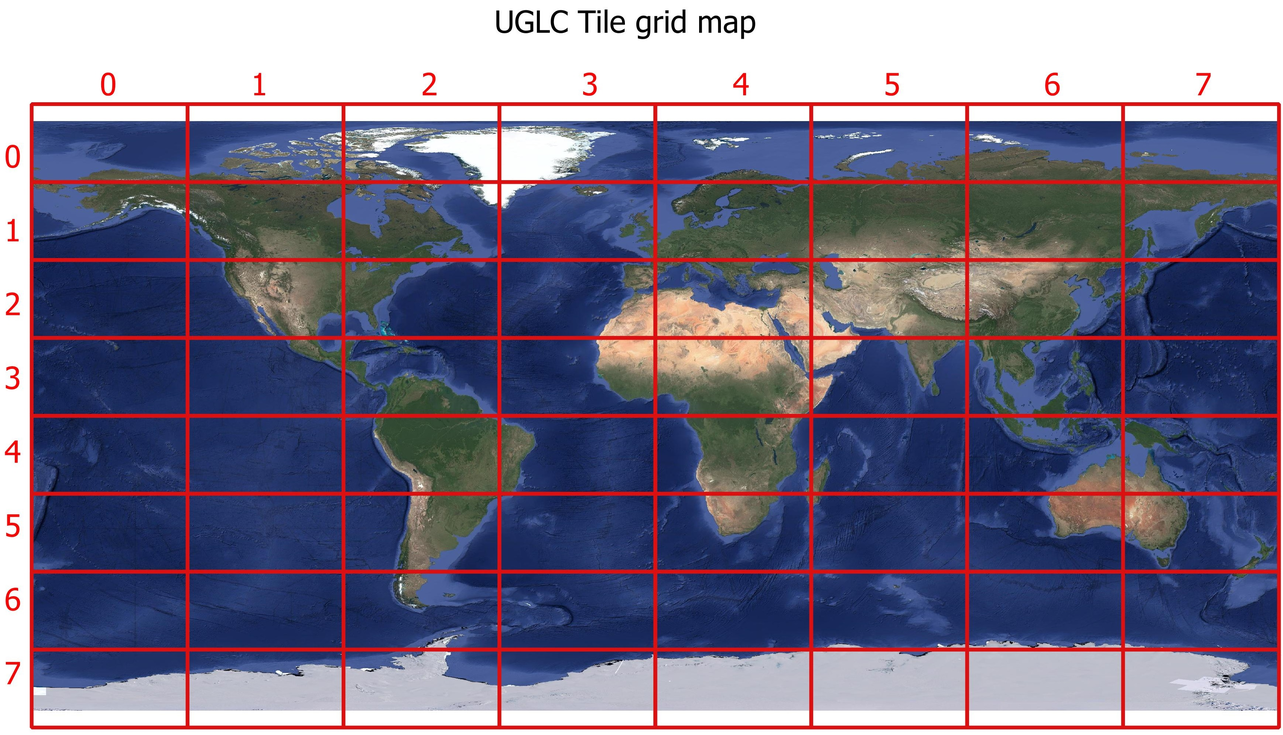
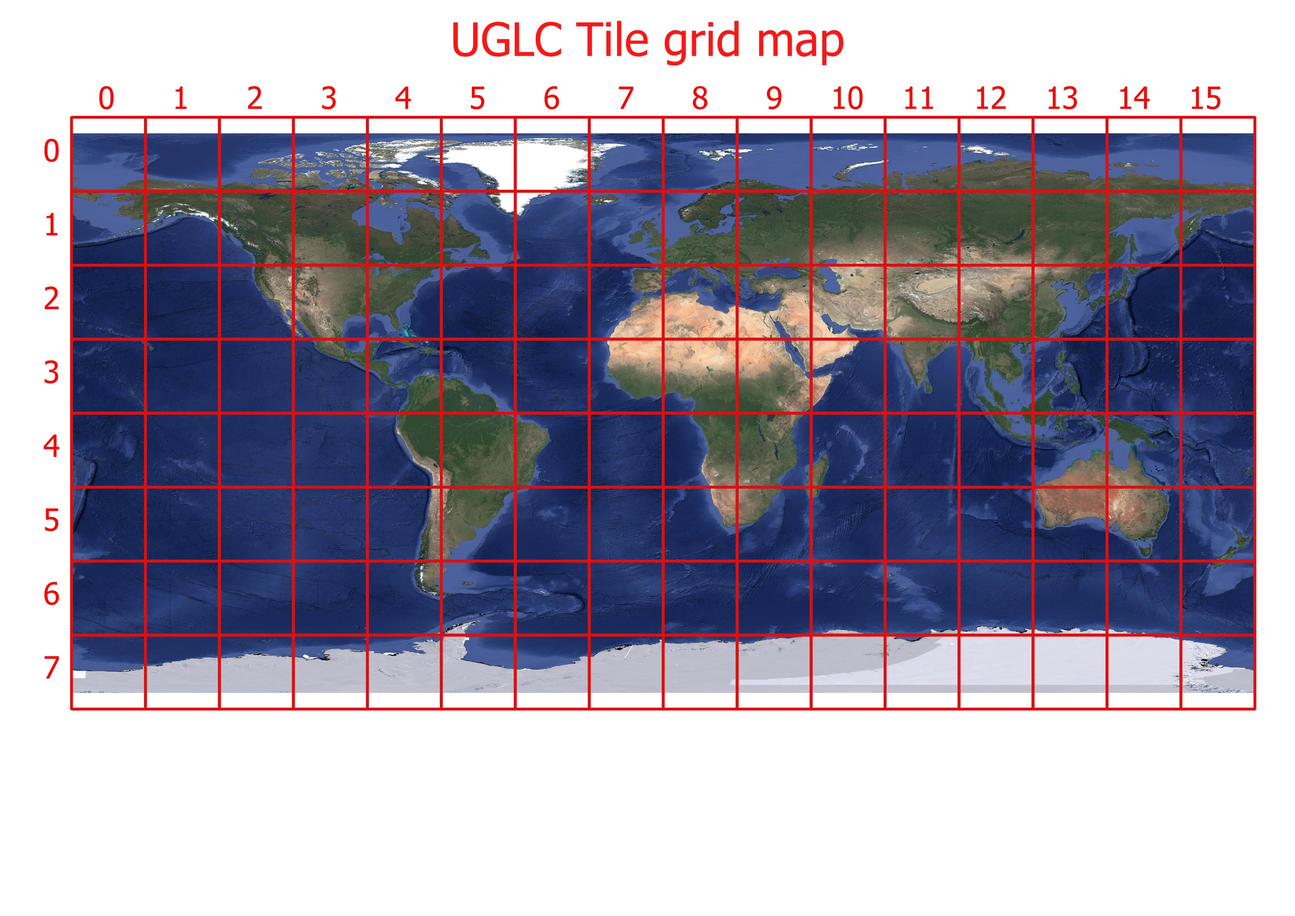
HOTFIX
- enviroment changed within the new G-Drive dedicated for just the polygonal dataset
- OR dataset removed because he did not have the necessary information and could not be trusted
- README updated
- Tiles grid enhanced to 15*7, to create tiles that are smaller, lighter and easier to use
- Added feature to not save empty tiles to optimize the space in the drive

diff --git a/csv/11_IFFI/11_IFFI_converter.py b/csv/11_IFFI/11_IFFI_converter.py
@@ -1,7 +1,7 @@
 #-----------------------------------------------------------------------------------------------------------------------
 #                                              UGLC DATAFRAME CONVERTER
 #-----------------------------------------------------------------------------------------------------------------------
-# native dataframe:     OR - Oregon Landslides inventory
+# native dataframe:     11 - Inventario fenomeni franosi in Italia (IFFI)
 #-----------------------------------------------------------------------------------------------------------------------
 # Conversion
 #-----------------------------------------------------------------------------------------------------------------------
@@ -28,12 +28,12 @@ print(f"Using root= {root}")
 # -----------------------------------------------------------------------
 
 # Native Dataframe 01_COOLR_native loading
-df_OLD = pd.read_csv(f"{root}/input/native_dataset/11_OR_native.csv", sep=';', low_memory=False, encoding="utf-8")
+df_OLD = pd.read_csv(f"{root}/input/native_dataset/11_IFFI_native.csv", sep=';', low_memory=False, encoding="utf-8")
 
 # JSON Lookup Tables Loading
-with open('11_OR_lookuptables.json', 'r', encoding="utf-8") as file:
+with open('11_IFFI_lookuptables.json', 'r', encoding="utf-8") as file:
     lookup_config = json.load(file)
-    lookup_tables = lookup_config["11_OR LOOKUP TABLES"]
+    lookup_tables = lookup_config["11_IFFI LOOKUP TABLES"]
 
 # Application of lookup Tables to the columns of the old DataFrame
 for column in df_OLD.columns:
@@ -80,20 +80,20 @@ df_NEW = pd.DataFrame(new_data)
 df_NEW['WKT_GEOM'] = df_OLD['WKT_GEOM']
 df_NEW['NEW DATASET'] = "UGLC"
 df_NEW['ID'] = "CALC"
-df_NEW['OLD DATASET'] = "OR - Oregon Landslides inventory"
-df_NEW['OLD ID'] = df_OLD.apply(lambda row: f"{row['OBJECTID']} - {row['UNIQUE_ID']}", axis=1)
-df_NEW['VERSION'] = str("2021/07/30")
-df_NEW['COUNTRY'] = "United States of America"
-df_NEW['ACCURACY'] = df_OLD["CONFIDENCE"]
-df_NEW['START DATE'] = df_OLD["START DATE"]
-df_NEW['END DATE'] = df_OLD["END DATE"]
-df_NEW['TYPE'] = df_OLD["TYPE_MOVE"]
+df_NEW['OLD DATASET'] = "IFFI - Inventario fenomeni franosi in Italia"
+df_NEW['OLD ID'] = df_OLD["id_frana"]
+df_NEW['VERSION'] = str("2024/04/19")
+df_NEW['COUNTRY'] = "Italy"
+df_NEW['ACCURACY'] = "0"
+df_NEW['START DATE'] = "1677/12/31"
+df_NEW['END DATE'] = "2024/04/19"
+df_NEW['TYPE'] = df_OLD["nome_tipo"]
 df_NEW['TRIGGER'] = "ND"
 df_NEW['RELIABILITY'] = "CALC"
 df_NEW['RECORD TYPE'] = "report"
 df_NEW['FATALITIES'] = "-99999"
 df_NEW['INJURIES'] = "-99999"
-df_NEW['NOTES'] = df_OLD.apply(lambda row: f"OR - locality: Oregon, description: {row['Descrip']} {row['DEEP_SHAL']}, area: {row['AREA']}, perimeter: {row['SHAPE_Leng']}, volume: {row['VOL']}", axis=1)
+df_NEW['NOTES'] = df_OLD.apply(lambda row: f"OR - locality: Italy - (region:{row['nome_reg']}), province:{row['nome_prov']}, city: {row['nome_com']}, description: ND, area: ND, perimeter: ND, volume: ND", axis=1)
 df_NEW['LINK'] = df_OLD.apply(lambda row: f"Source: ND", axis=1)
 
 #-----------------------------------------------------------------------------------------------------------------------
@@ -107,8 +107,8 @@ apply_RELIABILITY_calculator(df_NEW)
 #-----------------------------------------------------------------------------------------------------------------------
 
 # Creation of the new updated Dataframe as a .csv file in the selected directory
-df_NEW.to_csv(f"{root}/output/converted_csv/11_OR_converted.csv", sep=',', index=False, encoding="utf-8")
+df_NEW.to_csv(f"{root}/output/converted_csv/11_IFFI_converted.csv", sep=',', index=False, encoding="utf-8")
 
 print("__________________________________________________________________________________________")
-print("                             11_OR_native conversion: DONE                             ")
+print("                             11_IFFI_native conversion: DONE                              ")
 print("__________________________________________________________________________________________")

diff --git a/output/UGLC_unifier.py b/output/UGLC_unifier.py
@@ -9,7 +9,7 @@ load_dotenv("../config.env")
 files_repo = os.getenv("FILES_REPO")
 files_repo_linux = os.getenv("FILES_REPO_LINUX")
 
-# Verify if its there is a Windows G-Drive files repo or a Linux G-Drive files repo
+# Verify if there is a Windows G-Drive files repo or a Linux G-Drive files repo
 if os.path.exists(files_repo):
     root = files_repo
 else:
@@ -46,15 +46,15 @@ df_combined['ID'] = [str(i) for i in range(1, len(df_combined) + 1)]
 ##           [G-Cloud directory]
 ## (keep this commented when is not used)
 #
-# print(f"> Saving on cloud directory")
-# output_file_root = f"{root}/output"
+print(f"> Saving on cloud directory")
+output_file_root = f"{root}/output"
 
 ##           [Local directory]
 ## (insert your local directory)
 ## (keep this commented when is not used)
 
-print(f"> Saving on local directory")
-output_file_root = f"C:/Users/microzonazione_05/Desktop/UGLC Dataset/UGLC_poly"
+# print(f"> Saving on local directory")
+# output_file_root = f"C:/Users/microzonazione_05/Desktop/UGLC Dataset/UGLC_poly"
 # ------------------------------------
 
 # Verify the csv files presence into the dir
@@ -71,7 +71,7 @@ if csv_files:
     min_lat, max_lat = -90, 90
 
     # Calculate tile dimension (8x8 grid)
-    lon_step = (max_lon - min_lon) / 8
+    lon_step = (max_lon - min_lon) / 16
     lat_step = (max_lat - min_lat) / 8
 
     # Convert the dataframe as GeoDataFrame
@@ -92,11 +92,17 @@ if csv_files:
             # Filters polygons that fall within tile boundaries
             tile_gdf = gdf.cx[tile_min_lon:tile_max_lon, tile_min_lat:tile_max_lat]
 
-            # Save the result as GeoPackage
-            output_file_gpkg = f"{output_file_root}/UGLC_poly_tile_{i}_{j}.gpkg"
-            tile_gdf.to_file(output_file_gpkg, driver='GPKG')
-            print(f"GeoDataFrame Tile ({i}, {j}) saved on '{output_file_gpkg}' as GeoPackage.")
+            # Check if the tile contains data
+            if not tile_gdf.empty:
+                # Save the result as GeoPackage
+                output_file_gpkg = f"{output_file_root}/UGLC_poly_tile_{i}_{j}.gpkg"
+                tile_gdf.to_file(output_file_gpkg, driver='GPKG')
+                print(f"GeoDataFrame Tile ({i}, {j}) saved on '{output_file_gpkg}' as GeoPackage.")
+            else:
+                print(f"GeoDataFrame Tile ({i}, {j}) was not saved because it's empty.")
 
 # ------------------------------------
 else:
-    print("No CSV file found in to the directory.")
+    print("No CSV file found in the directory.")
+
+

diff --git a/input/native_dataset/11_IFFI_standardizer.py b/input/native_dataset/11_IFFI_standardizer.py
@@ -27,7 +27,7 @@ print(f"Using root= {root}")
 df_list = []
 
 # Path to the folder containing the ZIP files
-zip_folder = f"{root}/input/download/12_IFFI/"
+zip_folder = f"{root}/input/download/11_IFFI/"
 
 # Iterate through all ZIP files matching the pattern
 for filename in os.listdir(zip_folder):
@@ -67,5 +67,5 @@ for filename in os.listdir(zip_folder):
 df_final = pd.concat(df_list, ignore_index=True)
 
 # Save the final DataFrame to a CSV file
-output_path = f"{root}/input/native_dataset/12_IFFI_native.csv"
+output_path = f"{root}/input/native_dataset/11_IFFI_native.csv"
 df_final.to_csv(output_path, index=False, sep=';', encoding="utf-8")

diff --git a/README.md b/README.md
@@ -86,8 +86,7 @@ The whole code is published under the [MIT License](files/LICENSE.txt).
     | [08_JLD](https://zenodo.org/records/3775870)                                                                                                                                             | Japan landslide dataset for semantic segmentation                                  | 331         | [LICENSE](https://creativecommons.org/licenses/by/4.0/legalcode)                      | free      | :heavy_check_mark:    |
     | [09_COOLR](https://maps.nccs.nasa.gov/arcgis/apps/MapAndAppGallery/index.html?appid=574f26408683485799d02e857e5d9521)                                                                    | Cooperative Open Online Landslide Repository - Report and Event Polygons (NASA)    | 20056       | [LICENSE](https://maps.nccs.nasa.gov/arcgis/apps/MapAndAppGallery/index.html?appid=574f26408683485799d02e857e5d9521)                      | free      | :heavy_check_mark:    |
     | [10_ETGFI](https://www.sciencebase.gov/catalog/item/583f4114e4b04fc80e3c4a1a)                                                                                                            | ETGFI - Earthquake Triggered Ground Failure Inventories (USGS)                     | 491840      | [LICENSE](https://www.sciencebase.gov/catalog/item/583f4114e4b04fc80e3c4a1a)                      | free      | :heavy_check_mark:    |
-    | [11_OR](https://www.arcgis.com/home/item.html?id=32b5eeccb4524413ad51606378a908c4)                                                                                                       | OR - Oregon Landslides inventory                                                   | 22154       | [LICENSE](https://creativecommons.org/licenses/by/4.0/legalcode)                      | free      | :heavy_check_mark:    |
-    | [12_IFFI](https://idrogeo-isprambiente-it.translate.goog/app/page/open-data?_x_tr_sl=en&_x_tr_tl=it&_x_tr_hl=it&_x_tr_pto=sc&_x_tr_hist=true)                                                                                                     | IFFI - Inventario fenomeni franosi in Italia                                       | 423401      | [LICENSE](https://creativecommons.org/licenses/by/4.0/legalcode)                      | free      | :heavy_check_mark:    |
+    | [11_IFFI](https://idrogeo-isprambiente-it.translate.goog/app/page/open-data?_x_tr_sl=en&_x_tr_tl=it&_x_tr_hl=it&_x_tr_pto=sc&_x_tr_hist=true)                                           | IFFI - Inventario fenomeni franosi in Italia                                       | 423401      | [LICENSE](https://creativecommons.org/licenses/by/4.0/legalcode)                      | free      | :heavy_check_mark:    |
 
 
 - <b> OLD ID: </b> the contents of this field represent the identifying id assigned to this row in the source dataset (if any)
@@ -256,8 +255,9 @@ dataframe.
 <img alt="Dataframe Folder Structure" src="files/UGLC_tile_grid_map.jpeg"/>
 <p align="center"><i> UGLC tile grid map </i></p>
 
-The polygonal catalog is also available in GeoPackage format, divided into 64 rectangular tiles covering the entire 
-earth surface, having a Tile_ID attribute necessary for their identification.
+The polygonal catalog is available in GeoPackage format, divided into 105 tiles that cover the entire Earth's surface.
+Each tile includes a Tile_ID attribute for unique identification within the grid. Empty tiles are automatically excluded from storage,
+ensuring optimized file management and performance.
 
 --------------------------------------------------------
 ## :red_circle: Requirements
